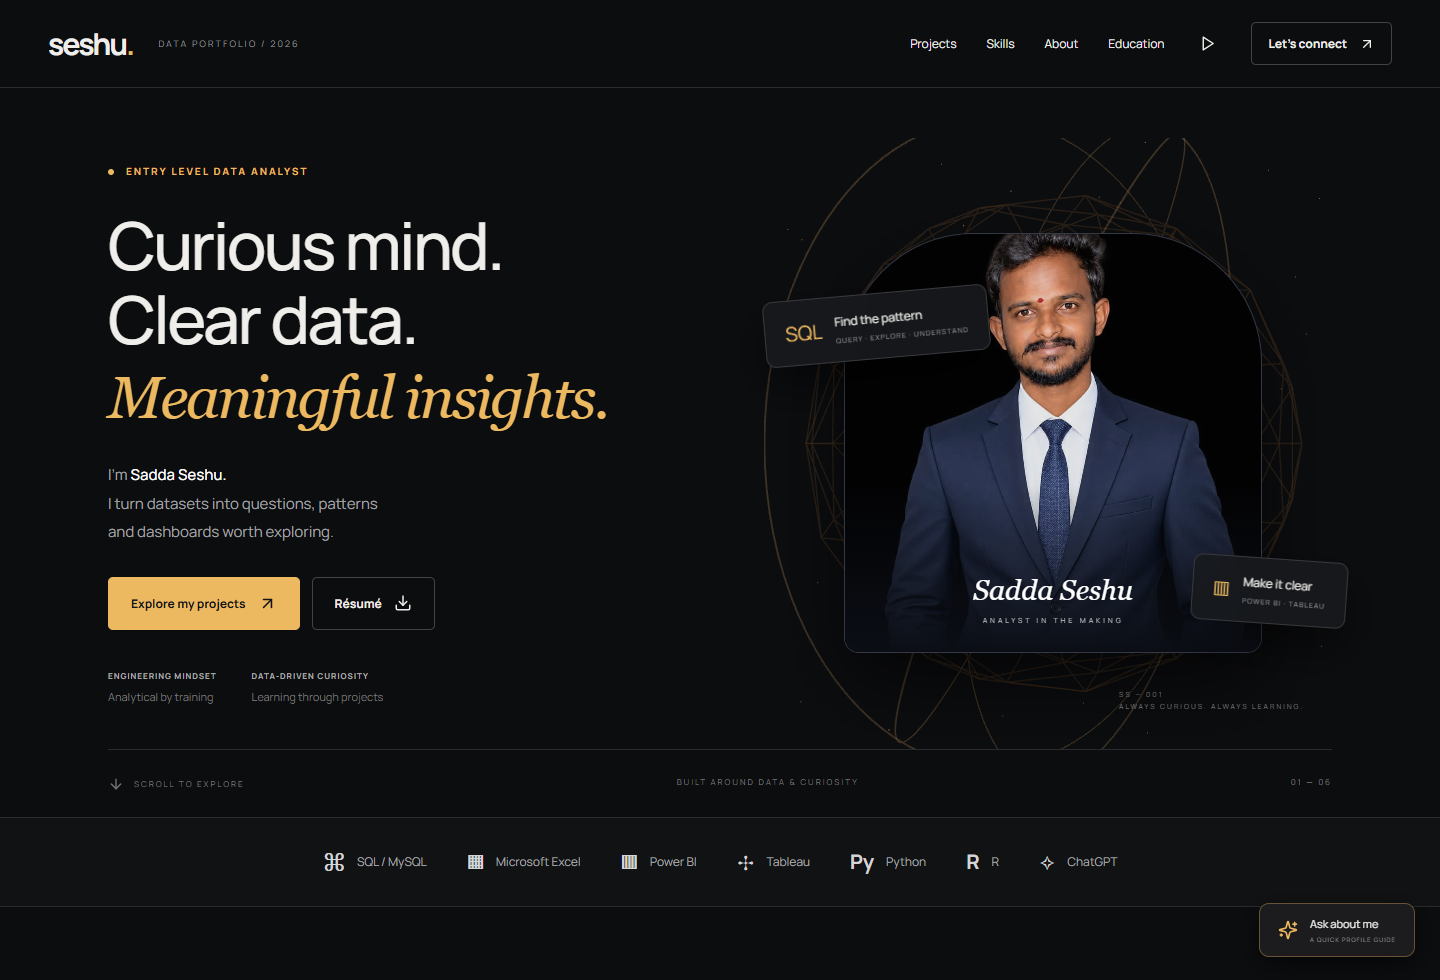
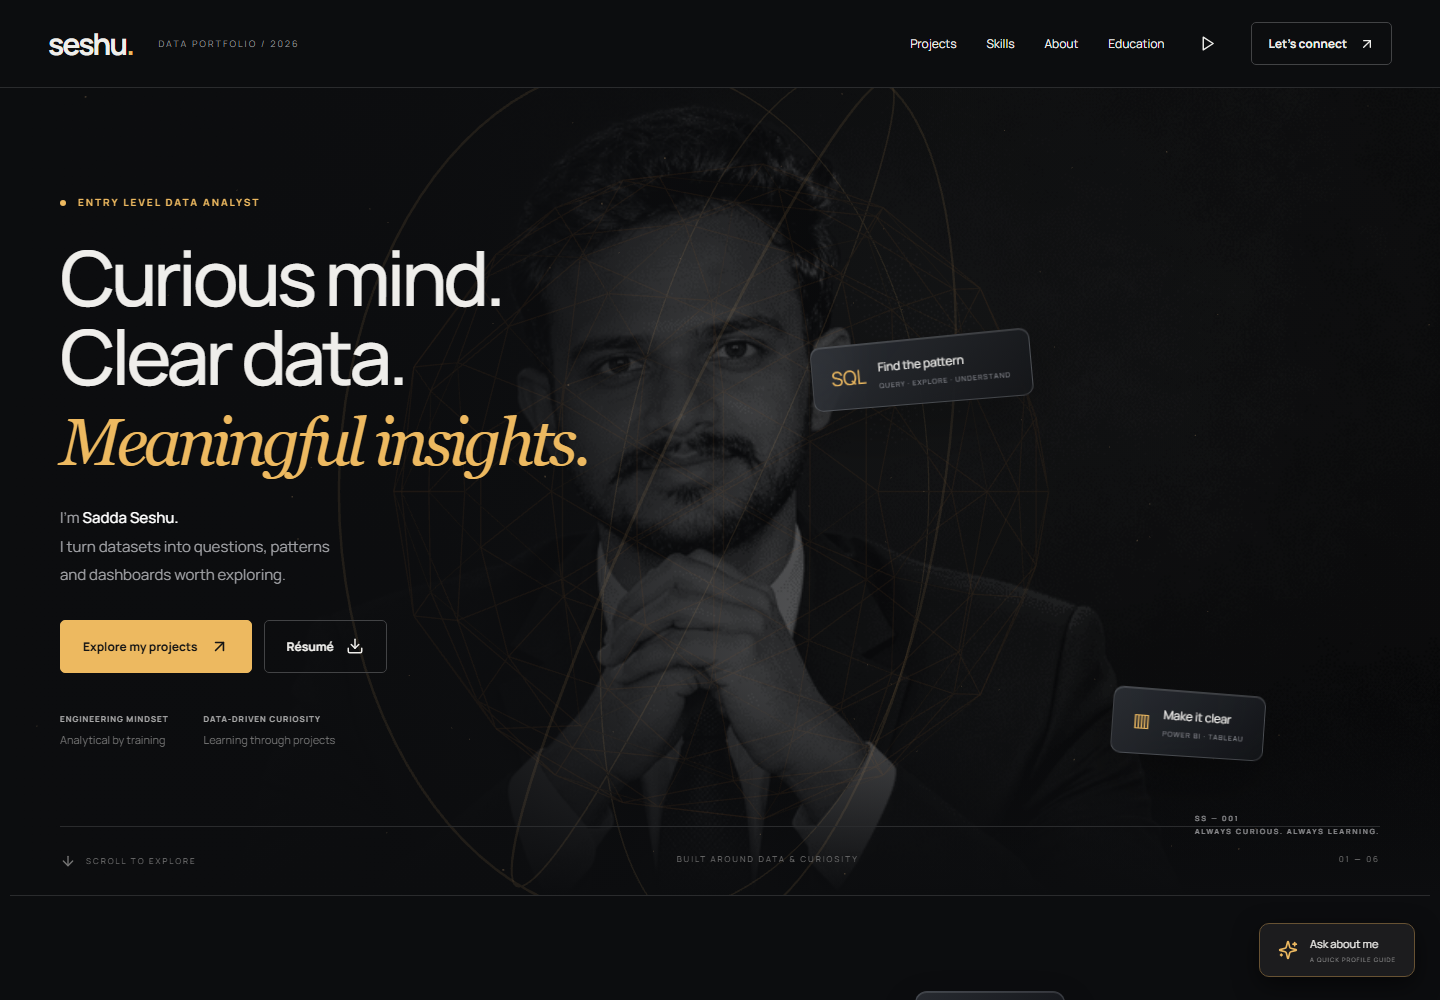
feat(portfolio): center skills orbit and refresh responsive screenshots

diff --git a/src/SkillsOrbit.jsx b/src/SkillsOrbit.jsx
@@ -3,7 +3,6 @@ import {
   ChartNoAxesCombined,
   Code2,
   Database,
-  Sparkles,
   Sigma,
   Table2,
 } from "lucide-react";
@@ -16,7 +15,6 @@ const icons = {
   dashboard: ChartNoAxesCombined,
   code: Code2,
   sigma: Sigma,
-  sparkles: Sparkles,
 };
 
 export default function SkillsOrbit() {
@@ -27,7 +25,7 @@ export default function SkillsOrbit() {
           <span /> THE TOOLKIT / ALWAYS IN MOTION
         </p>
         <h2 id="toolkit-heading">
-          Seven tools.
+          Six core tools.
           <br />
           <em>One curious mind.</em>
         </h2>
@@ -40,7 +38,7 @@ export default function SkillsOrbit() {
         <div className="tool-orbit-halo" aria-hidden="true" />
         <div className="tool-orbit-ring tool-orbit-ring--outer" aria-hidden="true" />
         <div className="tool-orbit-ring tool-orbit-ring--inner" aria-hidden="true" />
-        <div className="tool-orbit-wheel" role="list" aria-label="Seven analytics tools orbiting the workflow">
+        <div className="tool-orbit-wheel" role="list" aria-label="Six analytics tools orbiting a stationary center">
           {orbitTools.map((tool, index) => {
             const angle = (index / orbitTools.length) * Math.PI * 2 - Math.PI / 2;
             const Icon = icons[tool.icon];
@@ -65,7 +63,7 @@ export default function SkillsOrbit() {
         <div className="tool-orbit-core" aria-hidden="true">
           <span className="tool-orbit-core-mark">SS</span>
           <strong>DATA<br />ANALYTICS</strong>
-          <small>ONE WORKFLOW · 07 TOOLS</small>
+          <small>ONE WORKFLOW · 06 TOOLS</small>
         </div>
         <span className="tool-orbit-caption" aria-hidden="true">
           QUERY <i /> PREPARE <i /> EXPLAIN

diff --git a/src/profile.js b/src/profile.js
@@ -3,9 +3,9 @@ export const profile = {
  github: 'https://github.com/saddaseshu6-blip', linkedin: 'https://www.linkedin.com/in/sadda-seshu-b45193376',
  summary: 'A 2026 Mechanical Engineering graduate building a career in data analysis. I work with SQL, Excel, Power BI and Tableau to explore datasets, answer practical questions and turn findings into dashboards people can use.',
  education: [
-  {year:'2026',title:'B.Tech · Mechanical Engineering',school:'PVKK Institute of Technology, Anantapur',score:'7.8'},
+  {year:'2026',title:'B.Tech · Mechanical Engineering',school:'PVKK Institute of Technology, Anantapur',score:'7.6'},
   {year:'2022',title:'Diploma',school:'Government Polytechnic College, Sathyavedu',score:'6.5'},
-  {year:'2019',title:'Secondary School Certificate',school:'Priyadarsini Vidyamandir High School',score:'8.5'},
+  {year:'2019',title:'Secondary School Education',school:'Priyadarsini Vidyamandir High School',score:'8.8'},
  ],
 };
 export const projects = [
@@ -65,6 +65,5 @@ export const orbitTools=[
  {name:'Tableau',icon:'dashboard'},
  {name:'Python',icon:'code'},
  {name:'R',icon:'sigma'},
- {name:'ChatGPT',icon:'sparkles'},
 ];
 export const filterProjects=(tool)=>tool==='All'?projects:projects.filter(p=>p.tools.includes(tool));

diff --git a/src/hero.css b/src/hero.css
@@ -258,7 +258,7 @@
     inset 0 1px 2px rgb(255 255 255 / 18%),
     inset 0 -12px 28px rgb(0 0 0 / 36%);
   text-align: center;
-  transform: translate(-50%, -50%) rotateX(9deg);
+  transform: rotateX(9deg);
   transform-style: preserve-3d;
 }
 

diff --git a/README.md b/README.md
@@ -1,45 +1,124 @@
-# sadda-seshu-data-analytics-portfolio
-A professional, responsive Data Analytics Portfolio built with React and Vite, showcasing six project case studies using SQL, Excel, Power BI and Tableau. Features interactive project galleries, technical skills, résumé downloads and professional contact information.
+# Sadda Seshu — Data Analytics Portfolio
 
-A responsive React portfolio inspired by the supplied dark amber reference design. Includes six project case studies, a portrait, technology filters, project galleries, a local profile FAQ, contact links, reduced-motion support, and PDF/Word résumé downloads.
+A responsive portfolio presenting six data analytics case studies, technical skills, education, a résumé, and contact details. Built with React and Vite and deployed to GitHub Pages.
+
+[**Open the live portfolio →**](https://saddaseshu6-blip.github.io/sadda-seshu-data-analytics-portfolio/)
+
+## Screenshots
+
+These screenshots were captured from the production build at desktop, tablet, and mobile viewport sizes.
+
+### Desktop · 1440 × 1000
+
+![Portfolio on a desktop screen](previews/hero.png)
+
+### Tablet · 834 × 1080
+
+![Portfolio on a tablet screen](previews/tablet.png)
+
+### Mobile · 390 × 844
+
+![Portfolio on a mobile screen](previews/mobile-hero.png)
+
+<details>
+<summary>View full-page desktop, tablet, and mobile screenshots</summary>
+
+#### Desktop
+
+![Full desktop portfolio](previews/desktop.png)
+
+#### Tablet
+
+![Full tablet portfolio](previews/tablet-full.png)
+
+#### Mobile
+
+![Full mobile portfolio](previews/mobile.png)
+
+</details>
+
+### Interactive portfolio sections
+
+| Six-tool desktop orbit | Selected projects |
+| --- | --- |
+| ![Six analytics skills orbit around a fixed center](previews/skills-orbit.png) | ![Six portfolio projects in the responsive project gallery](previews/projects.png) |
+
+### Mobile skills orbit
+
+![Six analytics skills orbit on a mobile screen](previews/skills-orbit-mobile.png)
+
+### Project case study
+
+![Interactive insurance policy analysis case study](previews/project-dialog.png)
+
+## Highlights
+
+- Full-bleed monochrome portrait hero with layered, glass-style project callouts.
+- Animated orbit for SQL/MySQL, Microsoft Excel, Power BI, Tableau, Python, and R, arranged around a stationary center.
+- Pause control and reduced-motion support for animation.
+- Six interactive case studies, technology filters, project galleries, and a profile FAQ.
+- Responsive layouts, accessible navigation, keyboard-friendly dialogs, and downloadable PDF and Word résumés.
+- No backend, API keys, analytics, or external image/font requests.
+
+## Technology
+
+| Component | Version |
+| --- | --- |
+| React / React DOM | 19.3.1 |
+| Vite | 7.3.7 |
+| Three.js | 0.180.0 |
+| Lucide React | 0.468.0 |
+| Simple Icons | 15.22.0 |
+| ESLint | 9.39.5 |
+| Node.js | 22.12 or newer |
+| npm | 10 or newer |
+| GitHub Actions | Node.js 22 |
+
+Exact dependency versions are recorded in `package-lock.json`. The site uses locally bundled Manrope and DM Sans fonts.
 
 ## Run locally
 
-Install Node.js 22.12 or newer, then open this folder in a terminal:
+Install Node.js 22.12 or newer, then run these commands from the repository root:
 
 ```sh
 npm ci
 npm run dev
 ```
 
-Open the URL printed by Vite (default http://127.0.0.1:5186).
+Open the local URL printed by Vite (by default, `http://127.0.0.1:5186`).
+
+## Validate and build
 
 ```sh
-npm run test
+npm test
 npm run lint
 npm run build
 npm run preview
 ```
 
-The `dist` directory contains the ready-to-host static production site. Upload its contents to a static web host. Serve over HTTP/HTTPS; do not double-click index.html with a file:// URL. The relative Vite base supports deployment under a subfolder.
+Vite writes the production site to `dist/`. Deploy the contents of that directory to a static host; do not open `index.html` directly with a `file://` URL.
 
-## Deploy to GitHub Pages
+## Deploy
 
-Pushing to `main` builds the site and deploys the generated `dist` directory with GitHub Actions. In the repository's **Settings → Pages**, set the build and deployment source to **GitHub Actions** if it is not already selected. The published URL appears in the workflow run and the repository's Pages settings.
+GitHub Actions installs the locked dependencies, builds the production site, and deploys `dist/` to GitHub Pages whenever changes are pushed to `main`. If Pages has not been enabled yet, select **Settings → Pages → Build and deployment → GitHub Actions** in the GitHub repository.
 
-## Customize
+## Repository layout
 
-- `src/profile.js`: profile, education, skills, and project descriptions.
-- `src/App.jsx`: page sections, case study dialogs, prepared FAQ answers.
-- `src/styles.css`: responsive styles and colours.
-- `src/Scene.jsx`: optional Three.js background, with a motion pause button.
-- `public/images`: portrait, supplied screenshots, labelled SVG previews.
-- `public/resume`: downloadable PDF and Word documents.
+```text
+.github/workflows/static.yml  GitHub Pages deployment
+public/images/                Portrait, dashboard images, and project previews
+public/resume/                PDF and Word résumés
+src/App.jsx                   Portfolio sections and interactions
+src/Scene.jsx                 Optional Three.js hero background
+src/SkillsOrbit.jsx           Rotating analytics skills orbit
+src/hero.css                  Hero and skills-orbit styling
+src/profile.js                Portfolio, project, education, and skills content
+tests/portfolio.test.mjs      Portfolio content and asset tests
+previews/                     README screenshots
+```
 
-This is a static site: email/phone links open the visitor's own apps. The profile guide uses prepared answers and makes no AI/network calls. No backend, API keys, analytics, or contact-form database is included. Fonts and images are bundled locally.
+## Project-data notes
 
-## Project visuals and accuracy
+The policy dashboard uses supplied screenshots. The Zomato visual was recreated from the supplied Excel data. IPL and Hospital are labelled report-structure previews, not exported dashboards. Blinkit and Swiggy are labelled SQL workflow illustrations because their datasets were not supplied. See [CONTENT-SOURCES.md](CONTENT-SOURCES.md) for details.
 
-Policy images are the supplied dashboard screenshots. Zomato's visual was recreated using counts from the supplied Excel workbook. IPL and Hospital visuals are labelled report-structure previews, not exported dashboards. Blinkit and Swiggy use labelled SQL workflow illustrations because their datasets were not supplied. See CONTENT-SOURCES.md for details.
-
-Academic scores and certification follow the latest user-provided information and should be checked against original records before publishing. Project experience is presented as portfolio work, not employment. No hiring outcome or ATS score is guaranteed.
+Project experience is presented as portfolio work, not employment. Education details and scores should be verified against original records before publication. No hiring outcome or ATS score is guaranteed.
